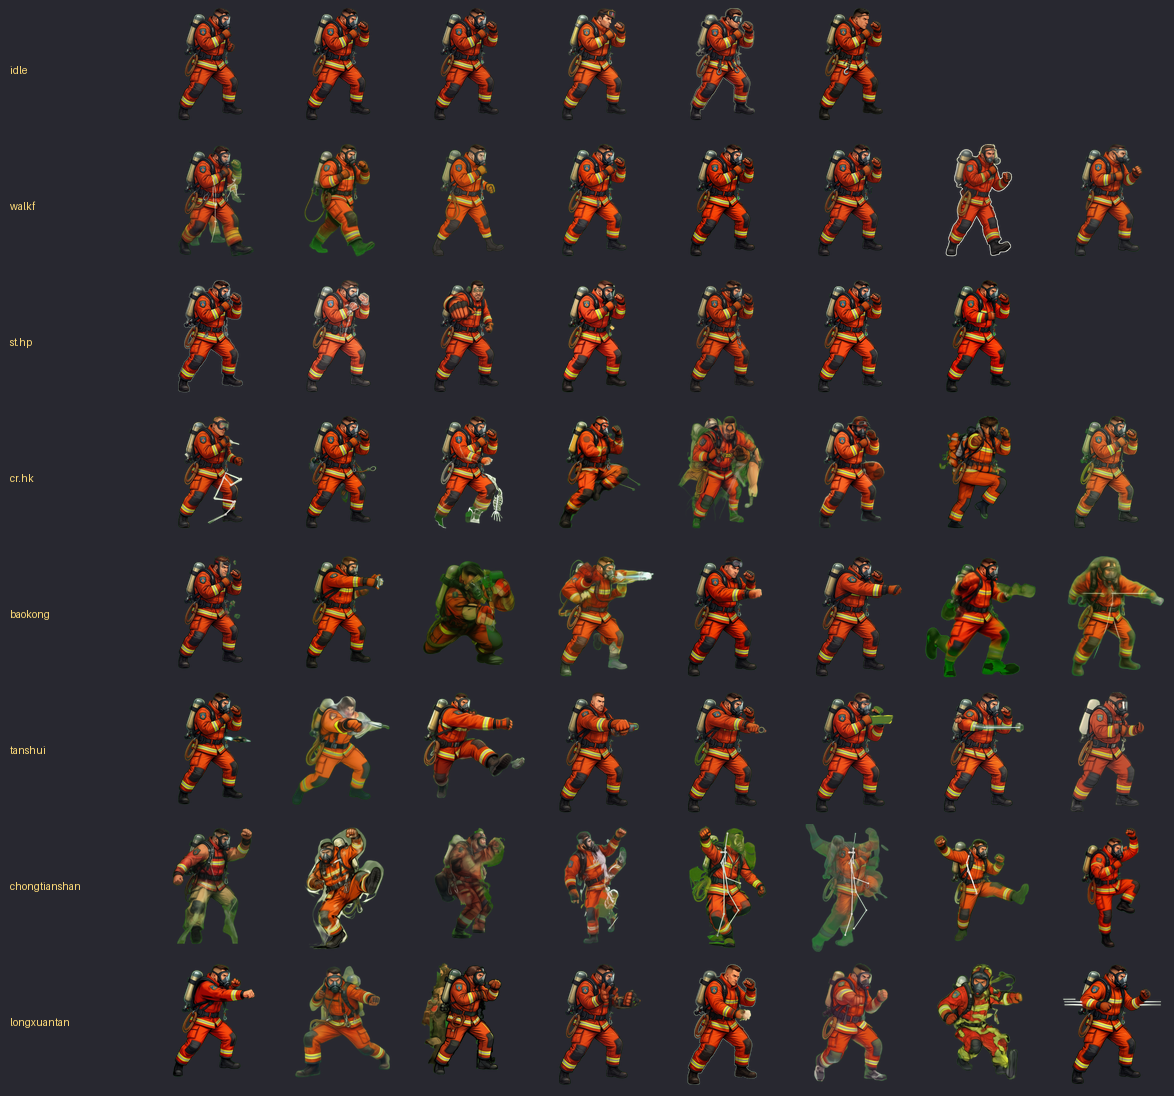
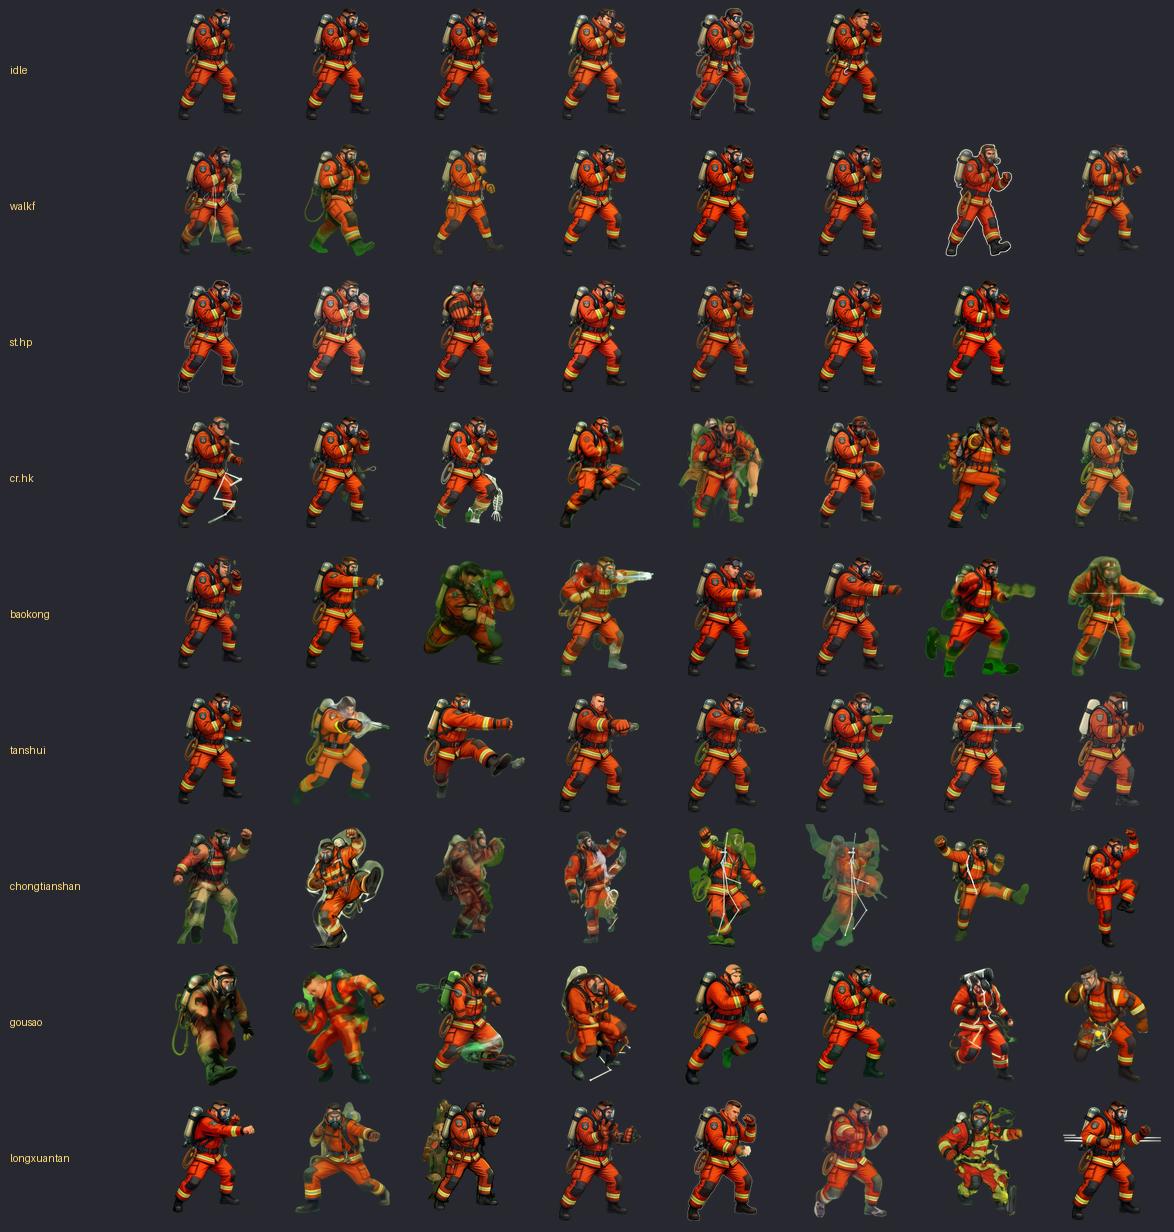
特殊技：c02 罗铮 钩扫（3HK 下段击倒扫）数据+帧+图集

diff --git a/src/theme/meilong/characters/c02.js b/src/theme/meilong/characters/c02.js
@@ -424,6 +424,29 @@ export default {
         "h": 68
       },
       "anim": "uppercut"
+    },
+    {
+      "id": "gousao",
+      "name": "钩扫",
+      "input": "3HK",
+      "desc": "后下重脚，救援钩拖扫，下段击倒",
+      "startup": 12,
+      "active": 5,
+      "recovery": 24,
+      "damage": 100,
+      "chip": 12,
+      "stun": 12,
+      "hitstun": 18,
+      "blockstun": 14,
+      "level": "low",
+      "knockdown": true,
+      "hitbox": {
+        "x": -4,
+        "y": 0,
+        "w": 58,
+        "h": 14
+      },
+      "anim": "sweep"
     }
   ],
   "supers": [
